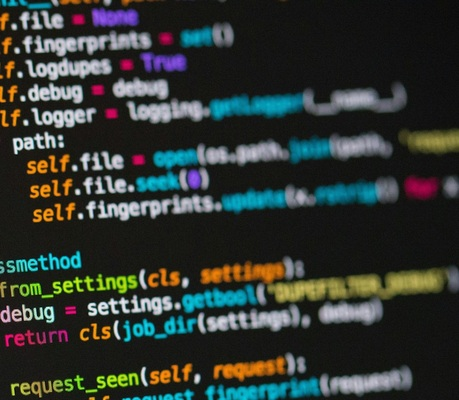
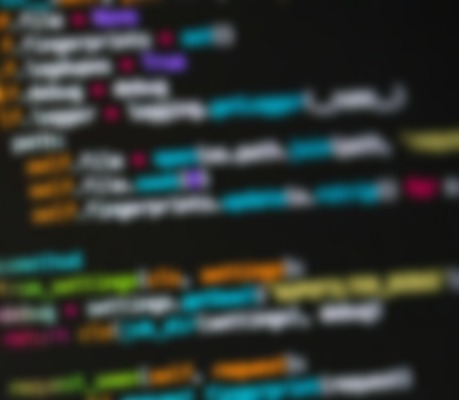
changed stock image

diff --git a/styles.css b/styles.css
@@ -212,8 +212,6 @@ a.project{
     color:black;
     z-index:0;
     margin-top: 100px;
-    filter:blur(3px);
-    -webkit-filter:blur(3px);
 }
 
 #name{
@@ -224,8 +222,6 @@ a.project{
     z-index:1;
     color: #ffffff;
     text-shadow: 2px 2px 8px rgba(0,0,0,0.8);
-    filter:none;
-    -webkit-filter:none;
 }
 
 #brown-strip{
@@ -241,8 +237,6 @@ a.project{
     -moz-border-radius: 0px 0px 20px 20px;
     -ms-border-radius: 0px 0px 20px 20px;
     -o-border-radius: 0px 0px 20px 20px;
-    filter:none;
-    -webkit-filter:none;
 }
 
 #github-projects{
@@ -251,6 +245,4 @@ a.project{
     bottom:75px;
     left: 75px;
     z-index:2;
-    filter:none;
-    -webkit-filter:none;
 }
